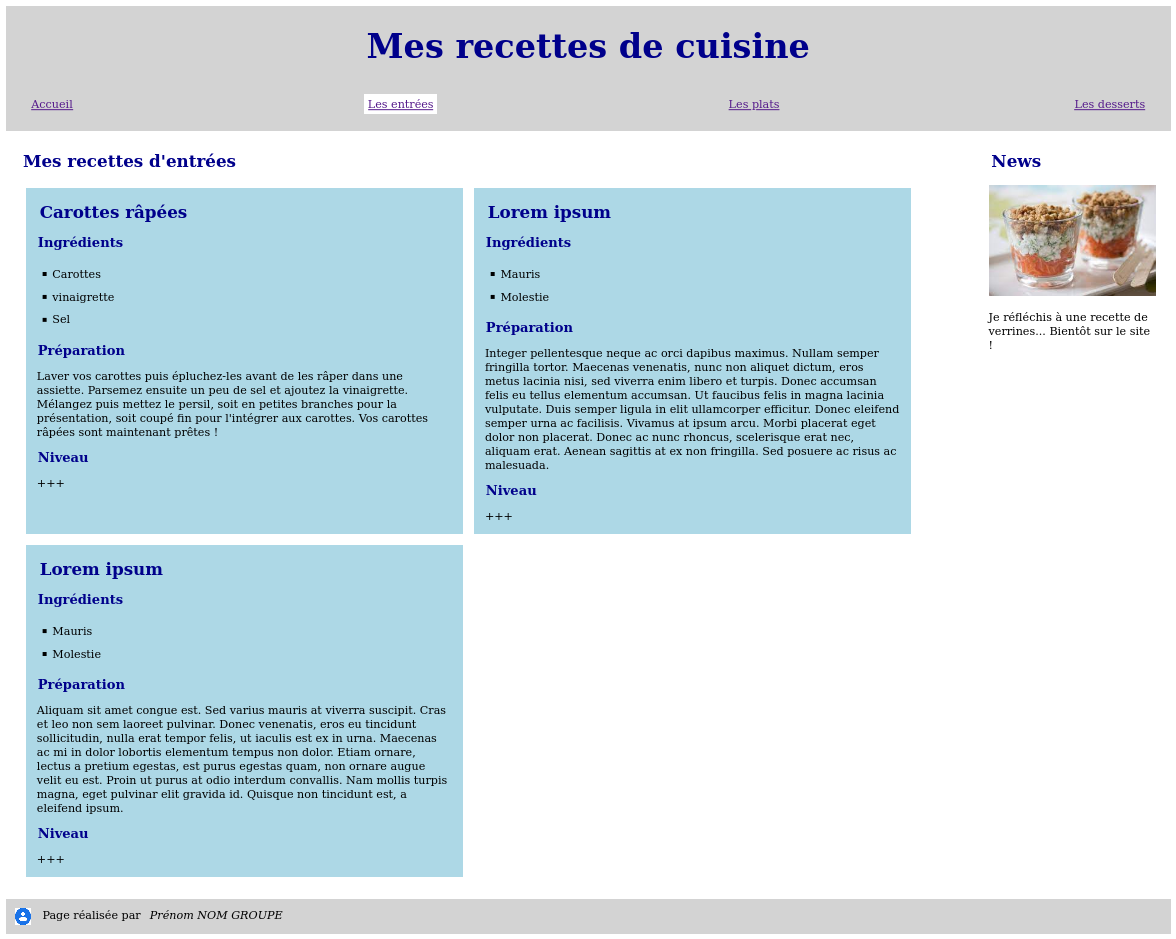
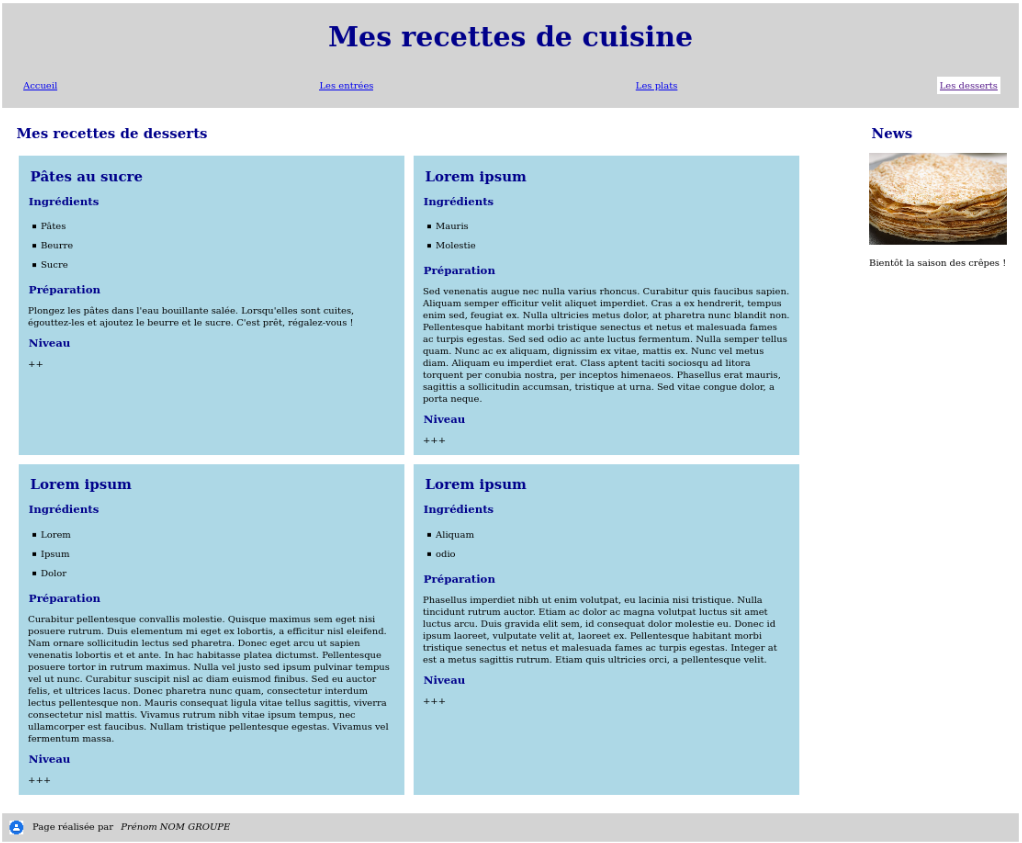
aa

diff --git a/recettes/html/Desserts.html b/recettes/html/Desserts.html
@@ -10,29 +10,21 @@
 <body>
     <header>
         <h1>
-
+            Mes recettes de cuisine
         </h1>
         <nav>
             <ul>
                 <li>
-                    <a>
-
-                    </a>
+                    <a href="Accueil.html">Accueil</a>
                 </li>
                 <li>
-                    <a>
-                        
-                    </a>
+                    <a href="Entrees.html">Les entrées</a>
                 </li>
                 <li>
-                    <a>
-                        
-                    </a>
+                    <a href="Plats.html">Les plats</a>
                 </li>
                 <li>
-                    <a>
-                        
-                    </a>
+                    <a href="Desserts.html">Les desserts</a>
                 </li>
             </ul>
         </nav>
@@ -194,7 +186,7 @@
     <footer>
         <img src="images" alt="images">
         <p>
-            
+
         </p>
     </footer>
 </body>
